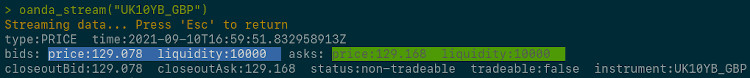
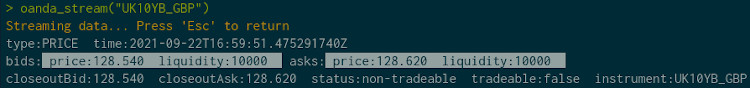
Build 1.2.1 CRAN release

diff --git a/pkgdown/extra.css b/pkgdown/extra.css
@@ -1,6 +1,9 @@
 /* shikokuchuo{net} custom css for pkgdown bootswatch simplex theme */
+@import url('https://fonts.googleapis.com/css2?family=Inconsolata&family=Open+Sans&display=swap');
 body {
-  color:#02141c
+  color:#02141c;
+  font-family:'Open Sans','Helvetica Neue',Helvetica,Arial,sans-serif;
+  font-weight:400
 }
 footer {
   color: #02141c
@@ -45,4 +48,11 @@ a {
 }
 .label-default {
  background-color:#02141c
+}
+code,
+kbd,
+pre,
+samp {
+ font-family:Inconsolata,Menlo,Monaco,Consolas,monospace;
+ font-size:100%
 }

diff --git a/src/cpp11.cpp b/src/cpp11.cpp
@@ -3,6 +3,7 @@
 
 
 #include "cpp11/declarations.hpp"
+#include <R_ext/Visibility.h>
 
 // shikokuchuo.cpp
 cpp11::doubles maxOver(const cpp11::doubles& x, int window);
@@ -27,11 +28,6 @@ extern "C" SEXP _ichimoku_meanOver(SEXP x, SEXP window) {
 }
 
 extern "C" {
-/* .Call calls */
-extern SEXP _ichimoku_maxOver(SEXP, SEXP);
-extern SEXP _ichimoku_meanOver(SEXP, SEXP);
-extern SEXP _ichimoku_minOver(SEXP, SEXP);
-
 static const R_CallMethodDef CallEntries[] = {
     {"_ichimoku_maxOver",  (DL_FUNC) &_ichimoku_maxOver,  2},
     {"_ichimoku_meanOver", (DL_FUNC) &_ichimoku_meanOver, 2},
@@ -40,7 +36,7 @@ static const R_CallMethodDef CallEntries[] = {
 };
 }
 
-extern "C" void R_init_ichimoku(DllInfo* dll){
+extern "C" attribute_visible void R_init_ichimoku(DllInfo* dll){
   R_registerRoutines(dll, NULL, CallEntries, NULL, NULL);
   R_useDynamicSymbols(dll, FALSE);
   R_forceSymbols(dll, TRUE);

diff --git a/src/shikokuchuo.cpp b/src/shikokuchuo.cpp
@@ -39,9 +39,9 @@ cpp11::doubles maxOver(const cpp11::doubles& x, int window) {
     while(deck.front().second <= i - window)
       deck.pop_front();
 
-    long double min = deck.front().first;
+    long double max = deck.front().first;
     if (i >= w1) {
-      vec[i] = min;
+      vec[i] = max;
     } else {
       vec[i] = NA_REAL;
     }

diff --git a/NEWS.md b/NEWS.md
@@ -1,11 +1,14 @@
-# ichimoku 1.2.0.1
+# ichimoku 1.2.1
 
 #### Updates:
 
-* Fixes cases of mis-alignment of main and sub-plots, axis label formatting of custom plots.
-* Fixes issue which caused `iplot()` to re-calculate the indicators when adjusting the data window.
+* Fix issue with 'bslib' theming after release of Shiny 1.7.0. For improved reliability, 'bslib' optional dependency removed.
+* More neutral formatting of `oanda_stream()` output to accommodate different console colour schemes.
+* Fix cases of mis-alignment of main and sub-plots, axis label formatting of custom plots.
+* Fix issue which caused `iplot()` to re-calculate the indicators when adjusting the data window.
 * Package dependency switched from 'gridExtra' to 'gtable'.
 * Adds 'grid' R core package dependency.
+* Minor performance improvements for `ichimoku()` and other functions.
 
 # ichimoku 1.2.0
 

diff --git a/README.md b/README.md
@@ -165,7 +165,7 @@ no kenkyuu]*. Tokyo, Japan: Toushi Radar.
 entity unaffiliated with the ichimoku package.
 
 Gao, C. (2021), *ichimoku: Visualization and Tools for Ichimoku Kinko
-Hyo Strategies*. R package version 1.2.0,
+Hyo Strategies*. R package version 1.2.1,
 <https://CRAN.R-project.org/package=ichimoku>.
 
 –
